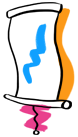
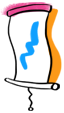
added animation for misc block

Changed region(s): [[0.0, 0.0, 0.9688, 1.0]]

diff --git a/src/scss/animations/_miscBlockAnimation.scss b/src/scss/animations/_miscBlockAnimation.scss
@@ -1,0 +1,187 @@
+$bgHeight: 500px;
+$bgDelay: 3s;
+
+//Background slide animation
+
+.miskBlockAnimationFrame {
+  position: relative;
+  overflow: hidden;
+  margin-top: -45px;
+  min-height: $bgHeight;
+}
+
+.miskBlockPinkLayer {
+  position: absolute;
+  background: #e93689;
+  width: 100vw;
+  height: $bgHeight;
+  animation: upperSlideWave 3.1s;
+  animation-fill-mode: forwards;
+  animation-delay: $bgDelay;
+}
+
+.miskBlockBlueLayer {
+  position: absolute;
+  background: #0099ff;
+  width: 100vw;
+  height: $bgHeight;
+  animation: upperSlideWave 3.2s;
+  animation-fill-mode: forwards;
+  animation-delay: $bgDelay;
+}
+
+.miskBlockOrangeLayer {
+  position: absolute;
+  background: #fc940d;
+  width: 100vw;
+  height: $bgHeight;
+  animation: upperSlideWave 3.3s;
+  animation-fill-mode: forwards;
+  animation-delay: $bgDelay;
+}
+
+.miskBlockUpperSlide {
+  position: absolute;
+  background: black;
+  width: 100vw;
+  height: $bgHeight;
+  animation: upperSlideWave 3s;
+  animation-fill-mode: forwards;
+  animation-delay: $bgDelay;
+}
+
+@keyframes upperSlideWave {
+  0% {
+    clip-path: polygon(100% 0%, 100% 50%, 100% 100%, 0% 100%, 0% 50%, 0% 0%);
+  }
+
+  25% {
+    clip-path: polygon(100% 0%, 100% 50%, 100% 100%, 0% 100%, 25% 50%, 0% 0%);
+  }
+
+  100% {
+    clip-path: polygon(175% 0%, 100% 50%, 175% 100%, 100% 100%, 125% 50%, 100% 0%)
+  }
+}
+
+// Hand animation
+
+.miskBlockIconScene {
+  position: absolute;
+  // border: solid 1px red;
+  height: 100%;
+  width: 700px;
+  z-index: 1;
+  bottom: 0;
+  left: 25%;
+  animation: endScene 0.3s;
+  animation-fill-mode: forwards;
+  animation-delay: 4s;
+}
+
+.tt {
+  position: absolute;
+  height: 15px;
+  width: 15px;
+  // background: rgba(248, 107, 107, 0.089);
+  bottom: 48%;
+}
+
+.mscHand {
+  position: absolute;
+  left: -12%;
+  animation: handMotion 3s;
+  animation-fill-mode: forwards;
+  transform: rotate(37deg);
+  animation-delay: 1s;
+}
+
+.mscUnderline {
+  position: absolute;
+  top: 50%;
+  animation: handUnderline 1.5s;
+  animation-fill-mode: forwards;
+  animation-delay: 2.5s;
+  width: 0;
+  height: 5px;
+  z-index: 4;
+}
+
+.mscBlueBlob {
+  position: absolute;
+  top: 40%;
+  left: 9%;
+  z-index: 3;
+  animation: spash 0.4s;
+  animation-fill-mode: forwards;
+  animation-delay: 2.9s;
+  clip-path: circle(2.2% at 100% 100%);
+}
+
+.mscPinkBlob {
+  position: absolute;
+  top: 27%;
+  left: 16%;
+  z-index: 2;
+  animation: spash 0.5s;
+  animation-fill-mode: forwards;
+  animation-delay: 3.1s;
+  clip-path: circle(2.2% at 100% 100%);
+}
+
+.mscOrangeBlob {
+  position: absolute;
+  top: 40%;
+  left: 29%;
+  z-index: 1;
+  animation: spash 0.4s;
+  animation-fill-mode: forwards;
+  animation-delay: 3.3s;
+  clip-path: circle(2.2% at 100% 100%);
+}
+
+@keyframes endScene {
+  0% {
+    opacity: 1;
+  }
+
+  100% {
+    opacity: 0;
+  }
+}
+
+@keyframes spash {
+  from {
+    clip-path: circle(2.2% at 89% 100%);
+  }
+
+  to {
+    clip-path: circle(120.0% at 80% 89%);
+  }
+}
+
+@keyframes handMotion {
+  0% {
+    transform: translate(0, 0);
+    transform: rotate(37deg);
+  }
+
+  50% {
+    transform: rotate(0deg);
+    transform: translate(30%, 62%);
+  }
+
+  100% {
+    transform: translate(175%, 62%);
+  }
+}
+
+@keyframes handUnderline {
+  0% {
+    width: 0;
+  }
+
+  100% {
+    width: 42%;
+  }
+}

diff --git a/src/index.html b/src/index.html
@@ -305,8 +305,7 @@
             <div data-aos-anchor=".dscrAnimationTrigger" data-aos="fade-left" class="dscr-right-box">
               <h2 class="global-title-text global-color-white descBlockTitle">Skills to Habits - это визуальная коммуникация вашей идеи</h2>
               <p class="global-subtitle-text global-color-white">
-                Заинтересуйте аудиторию визуальным повествованием.
-                Skills to Habits — это не просто иллюстрации, мы оживляем ваш
+                Визуальное повествование Skills to Habits — это не просто иллюстрации, мы оживляем ваш
                 контент с помощью рисования.
                 Превратите свои идеи в простой для понимания рассказ, который поможет достичь ваших целей.
               </p>
@@ -314,6 +313,37 @@
           </div>
         </div>
       </section>
+
+      <secontion class="miskBlock global-block-paddings">
+
+        <div class="miskBlockAnimationFrame">
+          <div class="miscAnimationTrigger"></div>
+          <div
+            data-aos-anchor=".miscAnimationTrigger"
+            data-aos-delay="500"
+            data-aos="fade-left"
+            class="miskBlockIconScene"
+          >
+
+            <img class="mscHand" src="/src/resources/miscBlockAnimate/hand.png" alt="">
+            <img class="mscUnderline" src="/src/resources/miscBlockAnimate/underline.png" alt="">
+            <img class="mscBlueBlob" src="/src/resources/miscBlockAnimate/blue.png" alt="">
+            <img class="mscPinkBlob" src="/src/resources/miscBlockAnimate/pink.png" alt="">
+            <img class="mscOrangeBlob" src="/src/resources/miscBlockAnimate/ornage.png" alt="">
+
+            <div class="tt"></div>
+
+          </div>
+
+          <div class="miskBlockOrangeLayer"></div>
+          <div class="miskBlockBlueLayer"></div>
+          <div class="miskBlockPinkLayer"></div>
+          <div class="miskBlockUpperSlide"></div>
+        </div>
+        <div class="global-wrapper">
+
+        </div>
+      </secontion>
 
     </main>
 

diff --git a/src/scss/main.scss b/src/scss/main.scss
@@ -1,6 +1,7 @@
 @use '/node_modules/aos/dist/aos.css';
-@use './globals';
-@use './navigation/navigation';
-@use './pages/intro-block';
-@use './pages/description-block';
-@use './vendors/aos-fixes';
+@use '/src/scss/vendors/_aos-fixes.scss';
+@use '/src/scss/globals/_index';
+@use '/src/scss/navigation/_navigation';
+@use '/src/scss/pages/_intro-block';
+@use '/src/scss/pages/_description-block';
+@use '/src/scss/pages/_miscBlock';

diff --git a/src/scss/animations/_introBlockSideAnimationPosition.scss b/src/scss/animations/_introBlockSideAnimationPosition.scss
@@ -132,14 +132,14 @@
 
   .couchingPosition {
     position: absolute;
-    left: 7px;
+    left: 17px;
     top: 23px;
   }
 
   .couchingTitlePosition {
     position: absolute;
     left: -1px;
-    top: 161px;
+    top: 143px;
   }
 }
 

diff --git a/src/scss/pages/_description-block.scss b/src/scss/pages/_description-block.scss
@@ -3,6 +3,7 @@
   position: relative;
   z-index: 1;
   overflow: hidden;
+  clip-path: polygon(0 0, 24% 0, 50% 0, 100% 0, 100% 100%, 83% 97%, 63% 98%, 49% 96%, 31% 99%, 12% 96%, 0 100%, 0 52%);
 }
 
 .description-block-paddings {

diff --git a/src/scss/pages/_miscBlock.scss b/src/scss/pages/_miscBlock.scss
@@ -1,0 +1,9 @@
+@use '/src/scss/animations/_miscBlockAnimation.scss';
+
+.miscAnimationTrigger {
+  height: 25px;
+  width: 25px;
+  position: absolute;
+  background: burlywood;
+  z-index: 1;
+}
